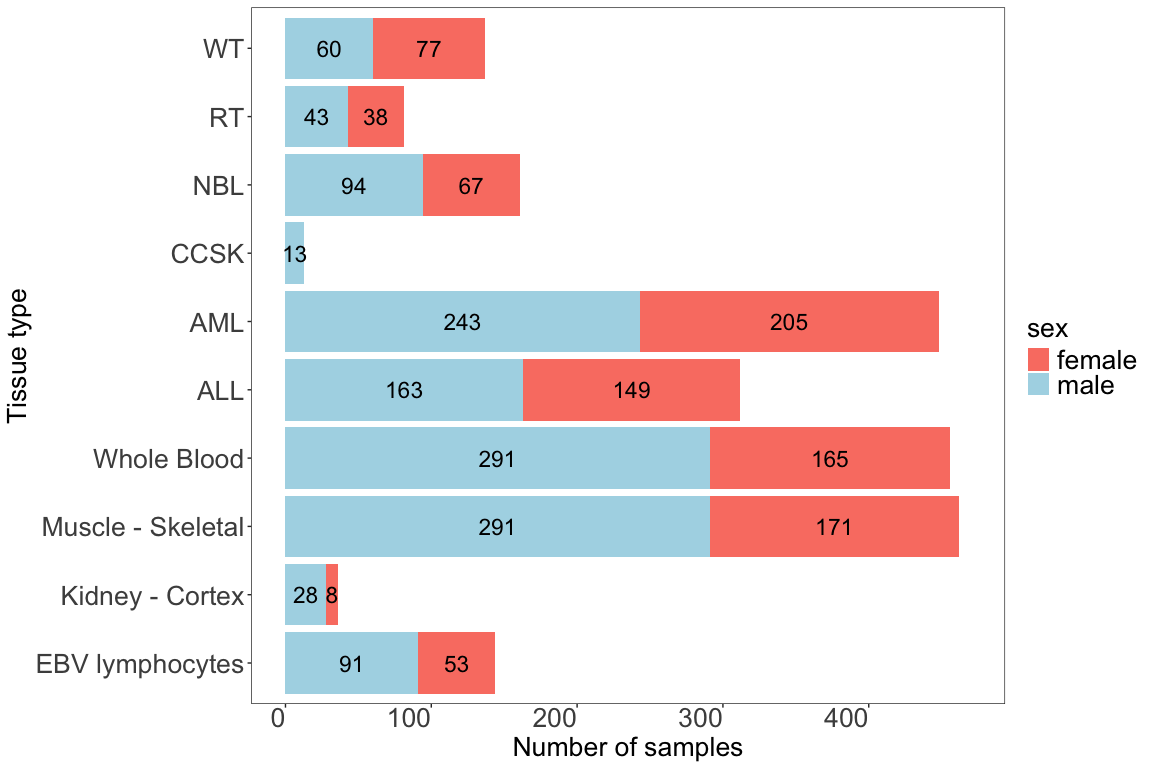
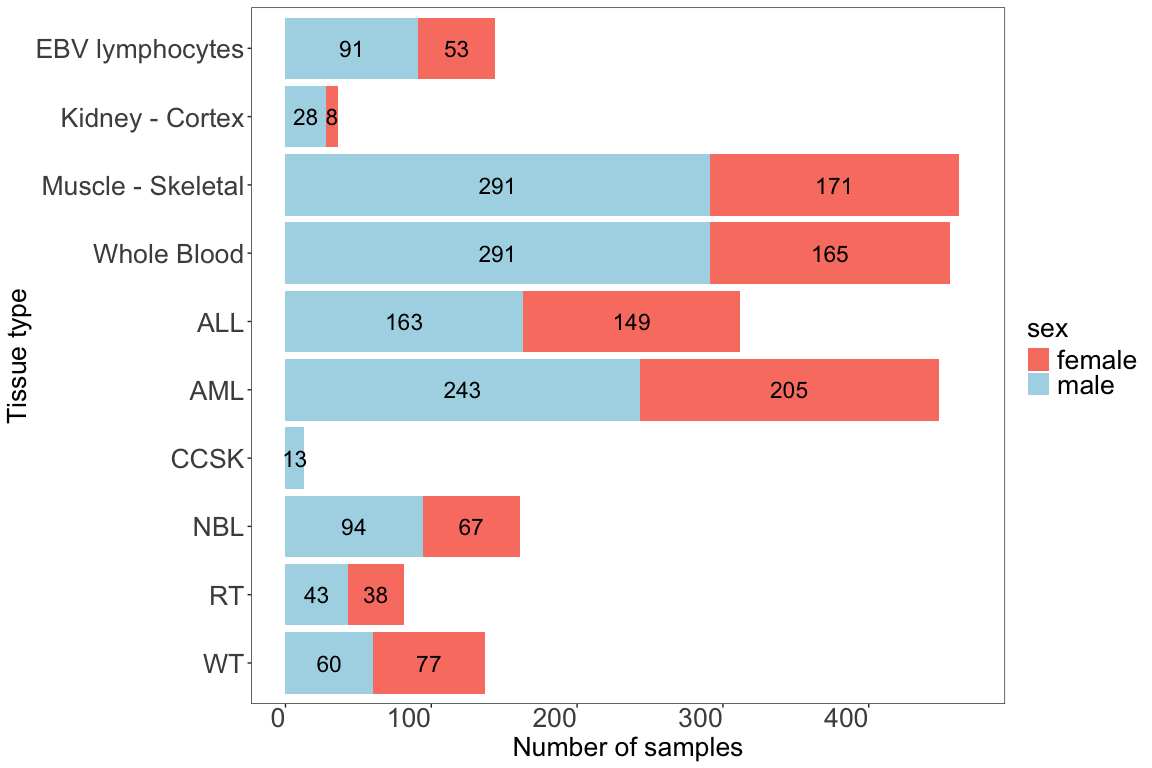
plot tissue types in same order as age dist

diff --git a/notebooks/compendium_summary/compendium_v1_summary.md b/notebooks/compendium_summary/compendium_v1_summary.md
@@ -824,7 +824,9 @@ ggplot(for_summary_compendium_df, aes(y = plot_tissue_type, fill = sex)) +
     angle = 0,
     position = position_stack(vjust = 0.5)
   ) +
-  scale_fill_manual(values = c("salmon", "lightblue"))
+  scale_fill_manual(values = c("salmon", "lightblue")) +
+  # allow tissue types to be plotted in same order as age distribution plots
+  scale_y_discrete(limits = rev(tissue_order))
 ```
 
 <div id="fig-sex_dist_tacked_bar">
